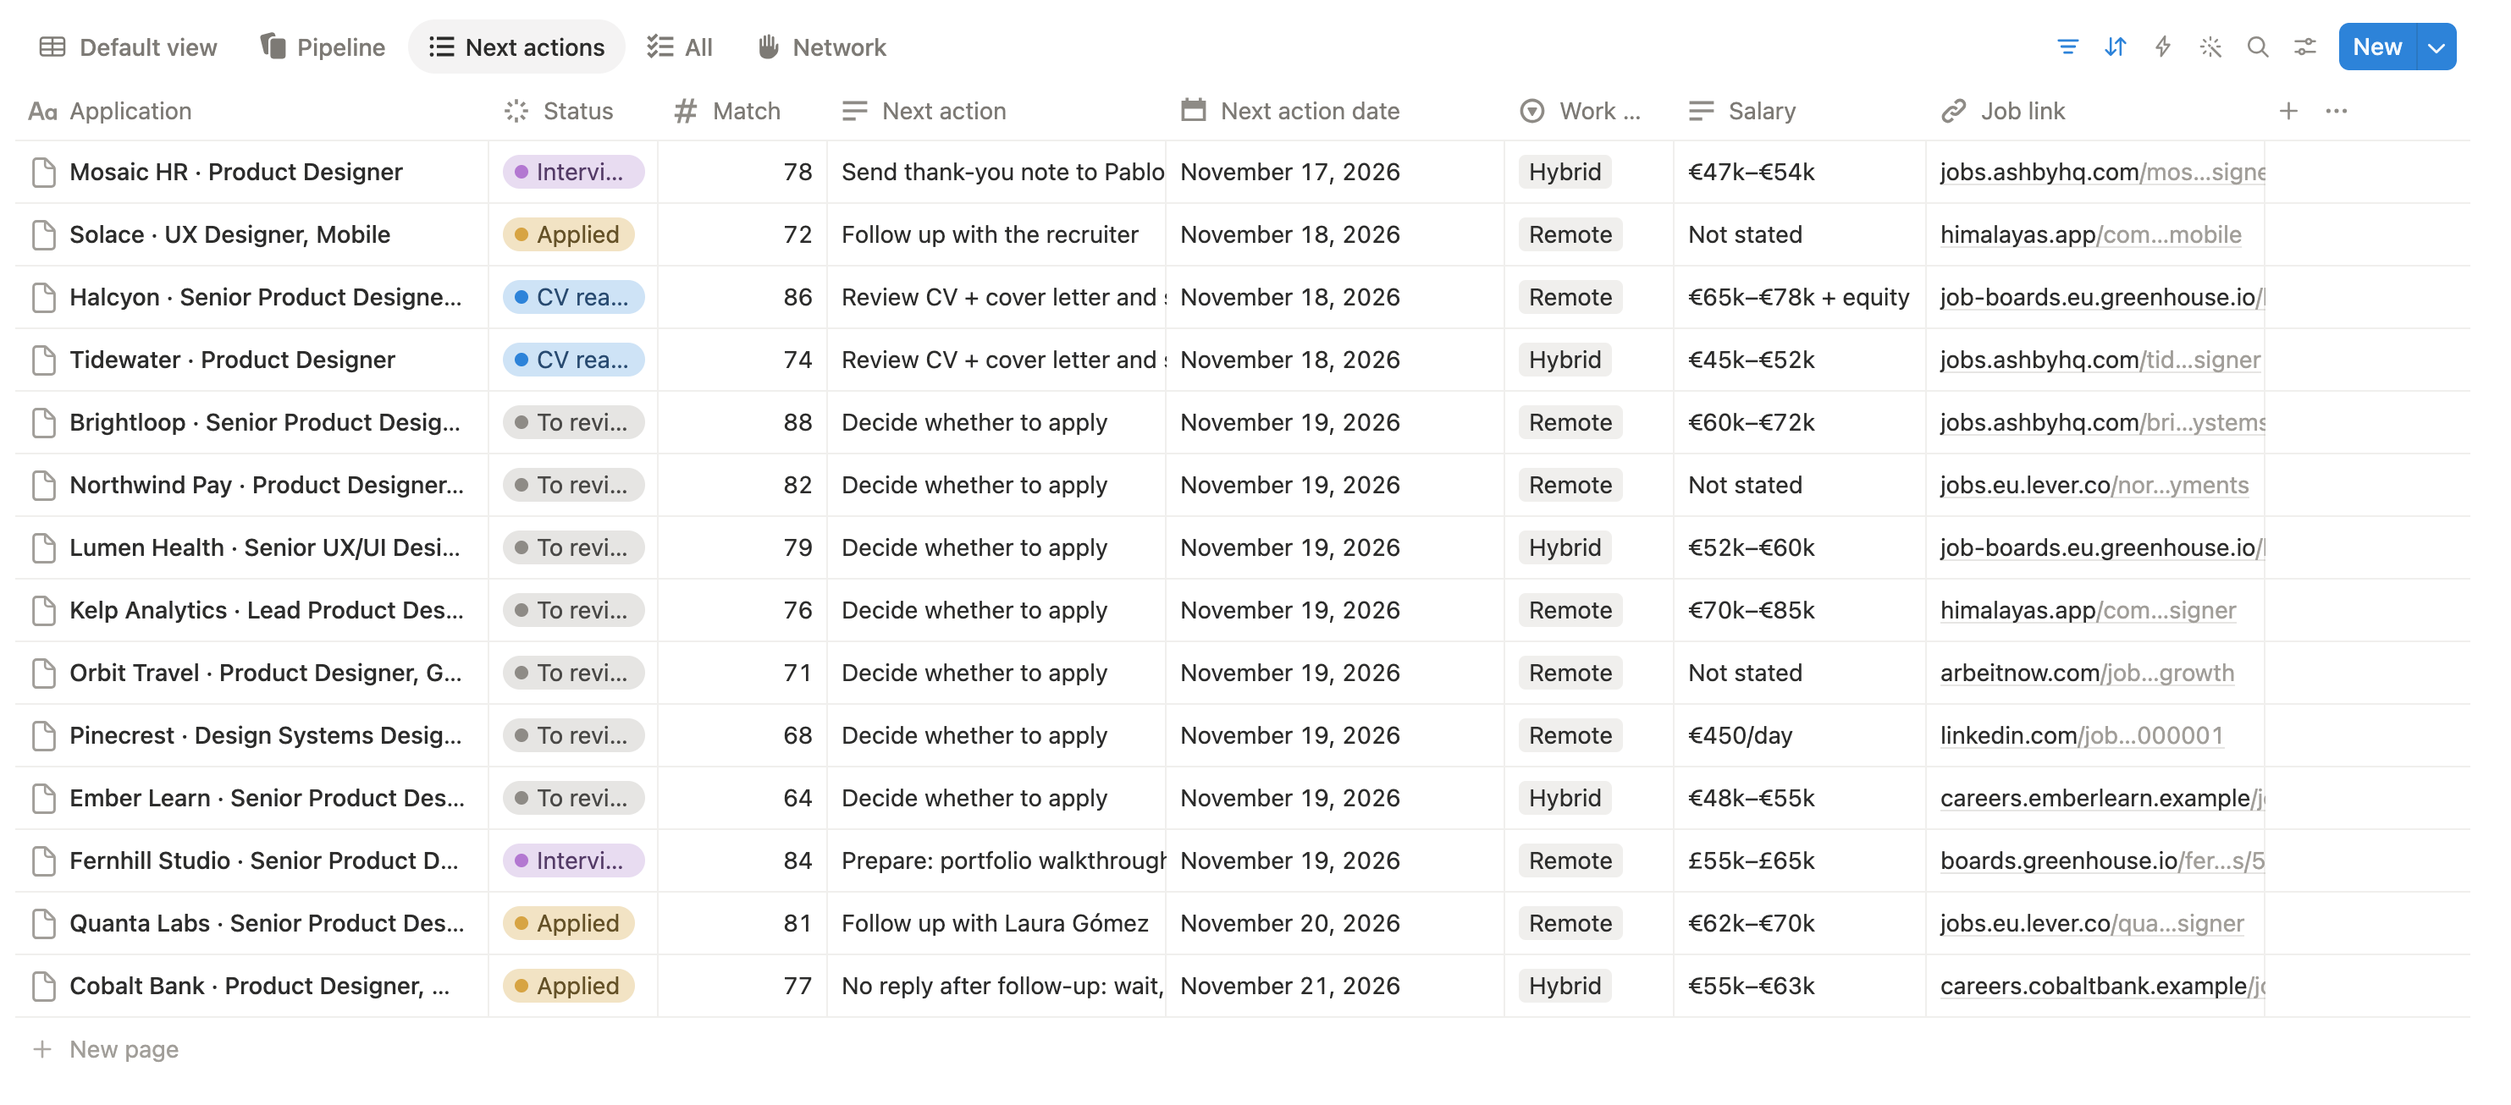
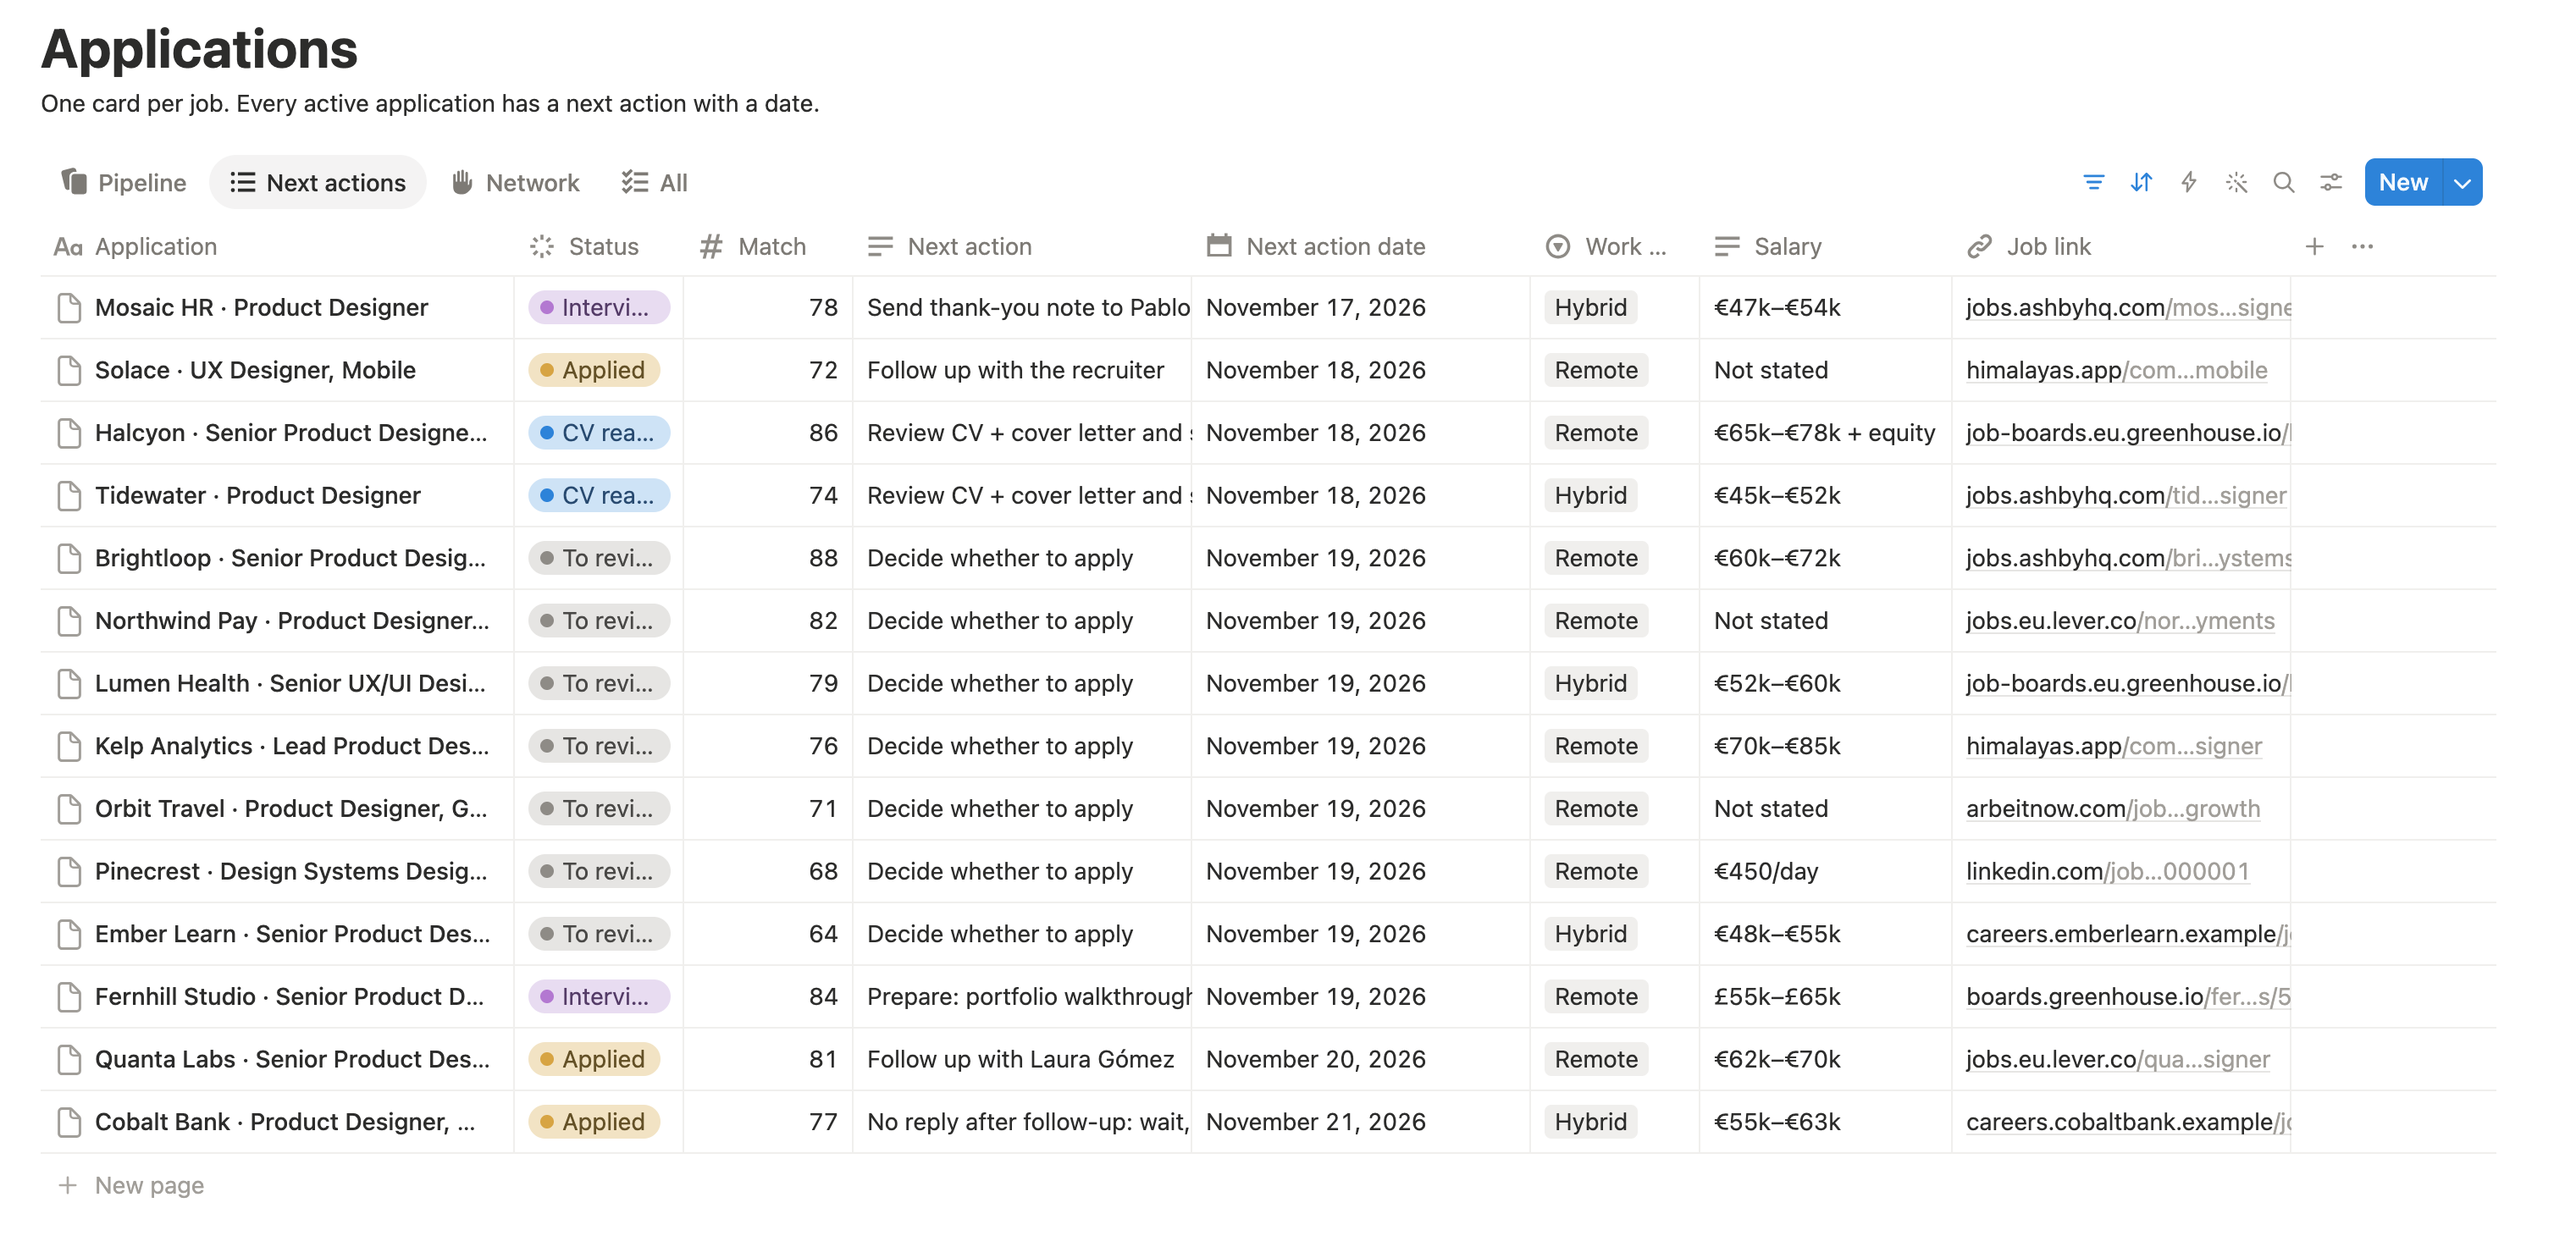
README: updated Notion screenshots with the final tabs, add All view
Claude-Session: https://claude.ai/code/session_01FZH3iopLpuxpAPuTBrVHst

diff --git a/README.md b/README.md
@@ -14,6 +14,8 @@ Built by a product designer for her own job search, then stripped of personal da
 
 ![Notion Next actions table sorted by date](docs/images/notion-next-actions.png)
 
+![Notion All table with every application and its columns](docs/images/notion-all.png)
+
 <sub>All names, companies and numbers in these images are fictional.</sub>
 
 ## Try it in 2 minutes (demo)
